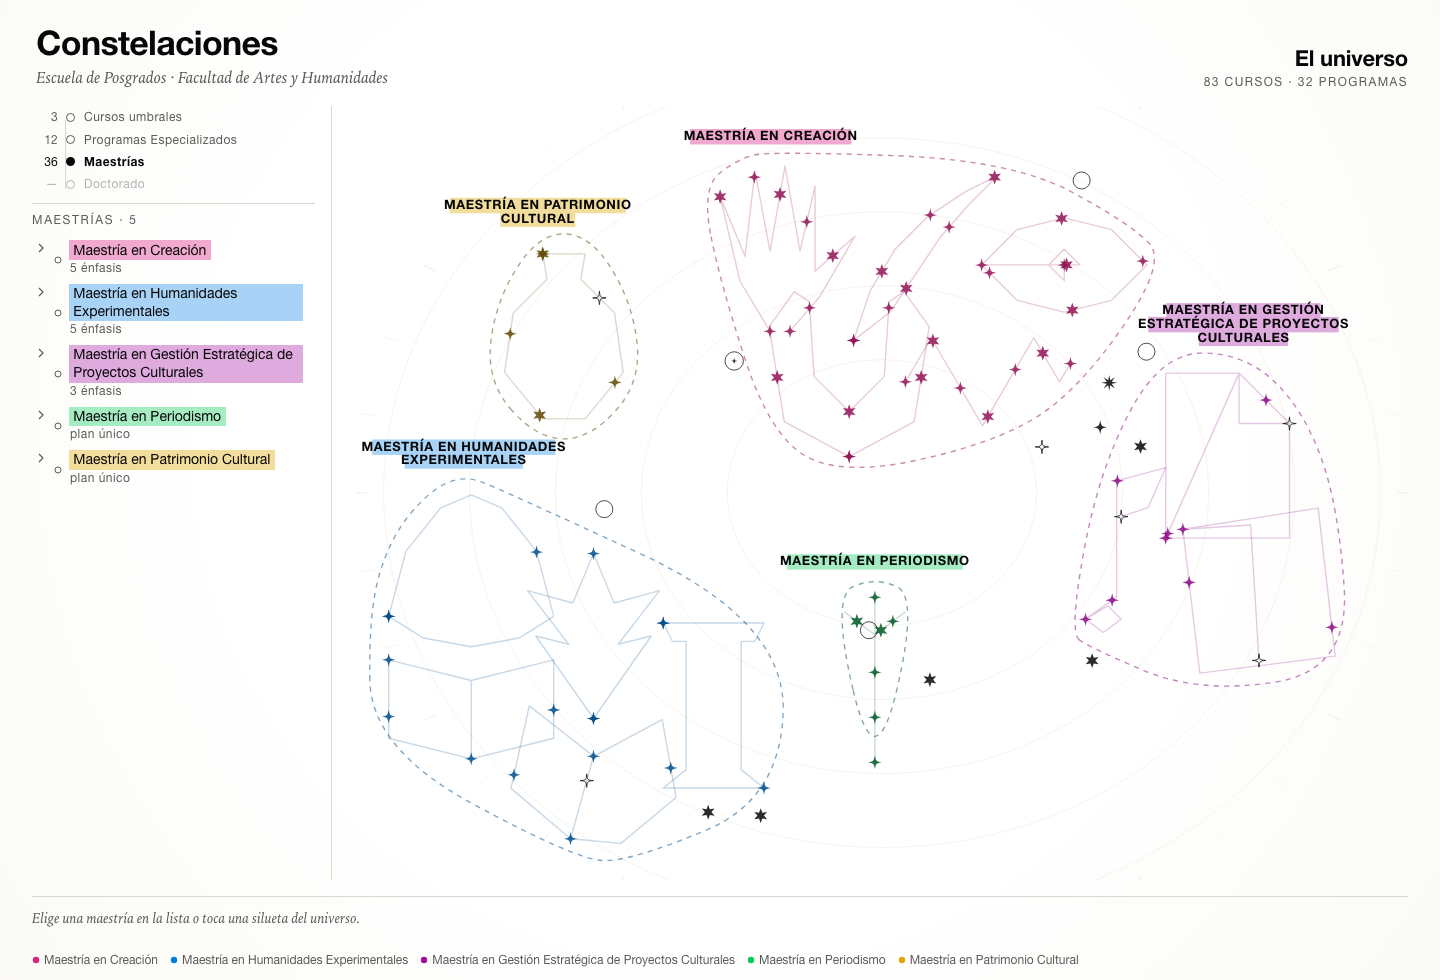
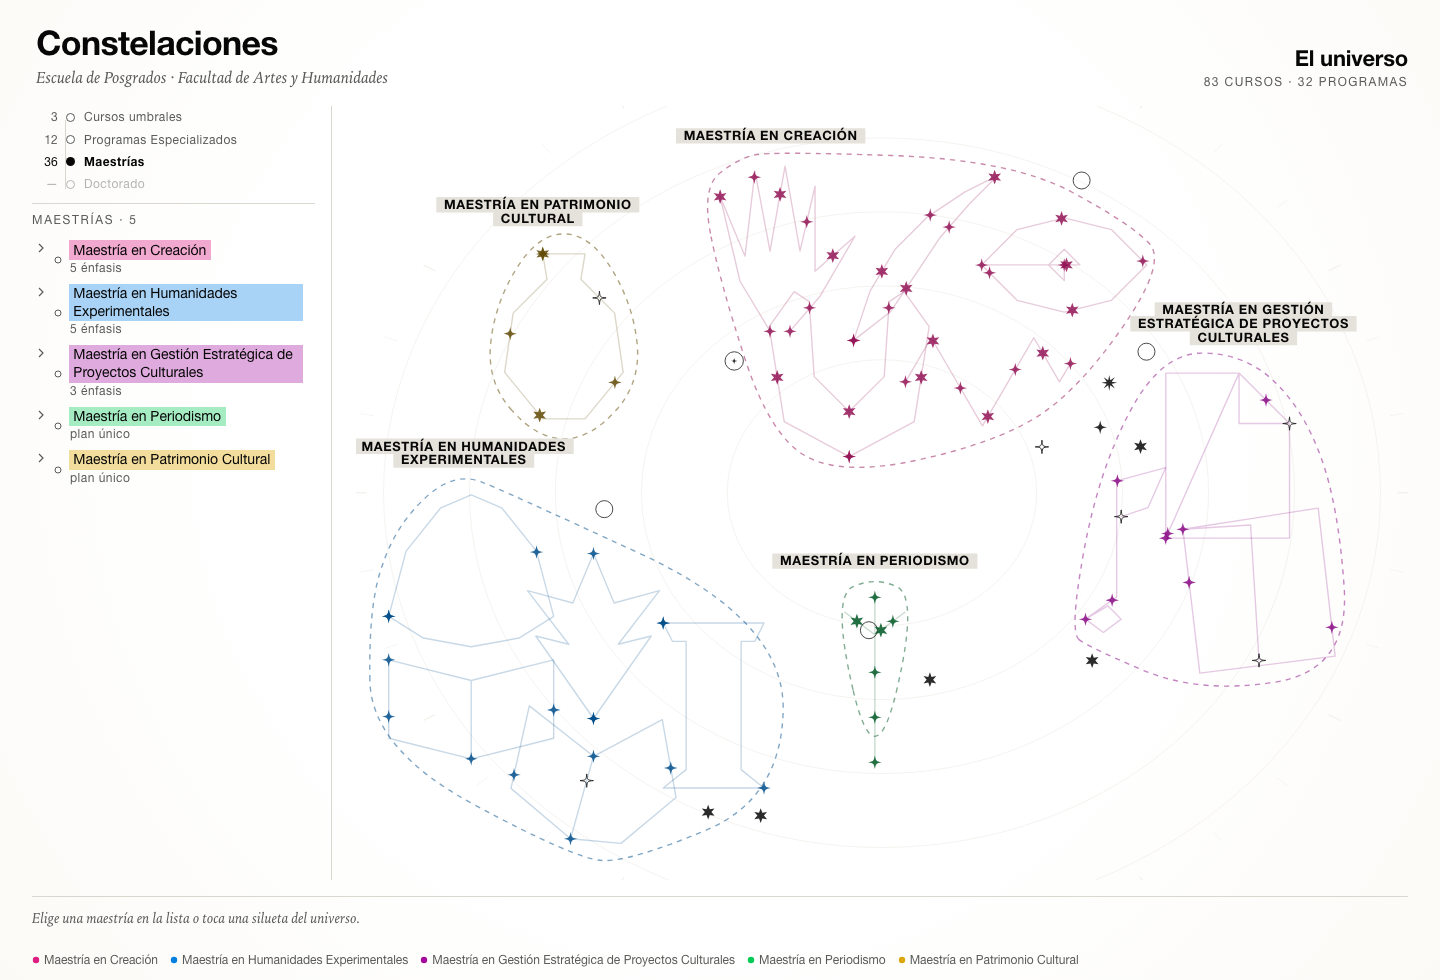
La marca de los rótulos se mide, no se estima
- Etiqueta.svelte mide el texto con getBBox y ajusta el rect
- estilos de rótulo a app.css (el scope no cruza componentes)
- el rótulo fijo calla al flotante en las maestrías de plan único
- docs y captura

diff --git a/src/lib/components/SkyStage.svelte b/src/lib/components/SkyStage.svelte
@@ -6,6 +6,7 @@
   import type { Punto } from '../domain/figures'
   import { polylinePath } from '../viz/geometry'
   import { envolventePath } from '../domain/hull'
+  import Etiqueta from './Etiqueta.svelte'
   import { finDelPlan, planViaje, posicionEn, prefiereMenosMovimiento } from '../viz/motion'
   import { colorDe, marcaDe, radioDe } from '../viz/palette'
   import StarGlyph from './StarGlyph.svelte'
@@ -328,37 +329,36 @@
             if (ev.key === 'Enter' || ev.key === ' ') { ev.preventDefault(); onElegir(l.programaId) }
           }}>
           {#each lineas as linea, i (linea)}
-            <rect
-              x={xEt - (linea.length * 8.4 + 20) / 2}
-              y={arriba[1] - 26 - (lineas.length - 1 - i) * 16}
-              width={linea.length * 8.4 + 20}
-              height="18"
-              class="fondo-region {marcaDe(l.programaId)}"
+            <Etiqueta
+              texto={linea}
+              x={xEt}
+              y={arriba[1] - 13 - (lineas.length - 1 - i) * 16}
+              clase="nombre-region"
+              marca={marcaDe(l.programaId)}
             />
-          {/each}
-          {#each lineas as linea, i (linea)}
-            <text x={xEt} y={arriba[1] - 13 - (lineas.length - 1 - i) * 16} class="nombre-region">{linea}</text>
           {/each}
         </g>
       {/if}
     {/each}
 
     {#each escena.siluetas as s (s.programaId)}
-      {#if sinPrograma && siluetaHover === (s.objetivo ?? s.programaId) && nivel !== 'curso'}
+      {#if sinPrograma &&
+        siluetaHover === (s.objetivo ?? s.programaId) &&
+        nivel !== 'curso' &&
+        !escena.limites.some((l) => l.programaId === (s.objetivo ?? s.programaId))}
         {@const p = curriculum.programas[s.objetivo ?? s.programaId]}
         {@const bx = s.puntos.reduce((a, q) => a + q[0], 0) / s.puntos.length}
         {@const by = Math.max(...s.puntos.map((q) => q[1]))}
         {@const anchoEt = Math.max(78, p.nombreCorto.length * 8.8 + 24)}
         {@const etX = Math.min(Math.max(bx, anchoEt / 2 + 8), escena.ancho - anchoEt / 2 - 8)}
         <g class="etiqueta">
-          <rect
-            x={etX - anchoEt / 2}
-            y={Math.min(by + 12, escena.alto - 28)}
-            width={anchoEt}
-            height="26"
-            class="fondo-figura-visible {marcaDe(s.programaId)}"
+          <Etiqueta
+            texto={p.nombreCorto}
+            x={etX}
+            y={Math.min(by + 12, escena.alto - 28) + 18}
+            clase="nombre-silueta"
+            marca={marcaDe(s.programaId)}
           />
-          <text x={etX} y={Math.min(by + 12, escena.alto - 28) + 18} class="nombre-silueta">{p.nombreCorto}</text>
         </g>
       {/if}
     {/each}
@@ -369,14 +369,7 @@
         {@const nombre = curriculum.programas[f.programaId]?.nombreCorto ?? ''}
         {@const cx = f.puntos.reduce((a, q) => a + q[0], 0) / f.puntos.length}
         {@const abajo = Math.max(...f.puntos.map((q) => q[1]))}
-        <rect
-          x={cx - (nombre.length * 8.4 + 20) / 2}
-          y={abajo + 8}
-          width={nombre.length * 8.4 + 20}
-          height="19"
-          class="fondo-figura {marcaDe(f.programaId)}"
-        />
-        <text x={cx} y={abajo + 22} class="nombre-figura">{nombre}</text>
+        <Etiqueta texto={nombre} x={cx} y={abajo + 22} clase="nombre-figura" marca={marcaDe(f.programaId)} />
       {/if}
     {/each}
   </g>
@@ -439,26 +432,16 @@
     outline: none;
   }
 
-  .rotulo-region:hover .nombre-region {
-    text-decoration: underline;
-    text-underline-offset: 3px;
+  .rotulo-region:hover {
+    opacity: 0.72;
   }
 
-  .rotulo-region:focus-visible .fondo-region {
-    stroke: var(--c-focus);
-    stroke-width: 2;
+  .rotulo-region:focus-visible {
+    outline: 2px solid var(--c-focus);
+    outline-offset: 3px;
   }
 
-  .nombre-region {
-    font-family: var(--ff-sans);
-    font-size: 15px;
-    font-weight: 700;
-    letter-spacing: 0.05em;
-    text-transform: uppercase;
-    fill: var(--c-ink);
-    text-anchor: middle;
-  }
-
+  
   /* el relleno lo pone la clase hl-* de app.css, para no pisarla con el scope */
 
   .silueta-selector {
@@ -490,15 +473,7 @@
     pointer-events: none;
   }
 
-  .nombre-silueta {
-    font-family: var(--ff-sans);
-    font-size: 14px;
-    font-weight: 700;
-    letter-spacing: 0.03em;
-    fill: var(--c-ink);
-    text-anchor: middle;
-  }
-
+  
   /* el relleno lo pone la clase hl-* de app.css, para no pisarla con el scope */
 
   .figura {
@@ -519,19 +494,7 @@
     stroke: var(--c-focus);
   }
 
-  .nombre-figura {
-    font-family: var(--ff-sans);
-    font-size: 14px;
-    font-weight: 700;
-    letter-spacing: 0.06em;
-    text-transform: uppercase;
-    fill: var(--c-ink);
-    text-anchor: middle;
-    opacity: 0;
-    transition: opacity var(--t-fast) var(--ease);
-    pointer-events: none;
-  }
-
+  
   .nombre-figura.visible,
   .fondo-figura.visible,
   .etiqueta.visible {

diff --git a/src/app.css b/src/app.css
@@ -105,3 +105,38 @@ button {
   background: var(--hl-ink);
   fill: var(--hl-ink);
 }
+
+/* Rótulos del cielo: viven en app.css porque los dibuja Etiqueta.svelte,
+   y los estilos con scope no cruzan la frontera del componente. */
+.nombre-region {
+  font-family: var(--ff-sans);
+  font-size: 15px;
+  font-weight: 700;
+  letter-spacing: 0.05em;
+  text-transform: uppercase;
+  fill: var(--c-ink);
+  text-anchor: middle;
+}
+
+.nombre-figura {
+  font-family: var(--ff-sans);
+  font-size: 14px;
+  font-weight: 700;
+  letter-spacing: 0.06em;
+  text-transform: uppercase;
+  fill: var(--c-ink);
+  text-anchor: middle;
+}
+
+.nombre-silueta {
+  font-family: var(--ff-sans);
+  font-size: 15px;
+  font-weight: 700;
+  letter-spacing: 0.05em;
+  fill: var(--c-ink);
+  text-anchor: middle;
+}
+
+.fondo-etiqueta {
+  fill: var(--hl-ink);
+}

diff --git a/src/lib/components/Etiqueta.svelte b/src/lib/components/Etiqueta.svelte
@@ -1,0 +1,29 @@
+<script lang="ts">
+  interface Props {
+    texto: string
+    x: number
+    y: number
+    clase: string
+    marca: string
+  }
+
+  let { texto, x, y, clase, marca }: Props = $props()
+
+  let nodo = $state<SVGTextElement | null>(null)
+  let ancho = $state(0)
+
+  // la marca se mide sobre el texto dibujado: nada de estimar por caracteres
+  $effect(() => {
+    if (nodo) ancho = nodo.getBBox().width + 18
+  })
+</script>
+
+<rect x={x - ancho / 2} y={y - 14} width={ancho} height="18" class="fondo-etiqueta {marca}" />
+<text bind:this={nodo} {x} {y} class={clase}>{texto}</text>
+
+<style>
+  /* el color lo pone la clase hl-* de app.css; aquí solo el aire */
+  .fondo-etiqueta {
+    rx: 1;
+  }
+</style>

diff --git a/docs/design-system.md b/docs/design-system.md
@@ -101,8 +101,11 @@ gritar: sirve para reconocer de un vistazo a qué familia pertenece un bloque.
 Reglas:
 
 - **Es un fondo, nunca texto.** Sobre la marca siempre va tinta `#070707`.
-- **Un rótulo, una marca.** Siluetas, regiones y figuras usan el mismo par: `rect` con la clase
-  `.hl-*` y texto en tinta, 12–14 px, negrita. No hay rótulos «a pelo».
+- **Un rótulo, una marca, una medida.** Siluetas, regiones y figuras se dibujan con `Etiqueta`: un
+  `rect` con la clase `.hl-*` y texto en tinta, 14–15 px, negrita. El ancho del `rect` sale de medir el
+  texto, no de estimarlo por caracteres — la estimación fue justo lo que descuadró la marca. Los
+  estilos de estos rótulos viven en `app.css` porque los pinta otro componente y el scope de Svelte no
+  cruza esa frontera.
 - **Solo títulos y rótulos cortos**: nombre de maestría, título de periodo, rótulo de una figura al
   pasar el cursor, rótulo de una región (12 px, negrita, MAYÚSCULAS, sobre su marca de familia). Nunca párrafos, nunca texto de cuerpo, nunca dos marcas en la misma línea.
 - En SVG la marca es un `rect` con la clase `.hl-*` (que fija `fill` además de `background`), y el
@@ -206,6 +209,7 @@ radio: el cielo de fondo no compite con la constelación encendida.
 | `SkyStage` | `graph`, `figures`, `mode` | cielo, constelación, vacío | Único componente que dibuja el SVG. Sin lógica de dominio. |
 | `ConstellationPath` | `programId`, `color`, `pattern`, `points`, `figure` | normal, hover, atenuado | Una `path` por constelación; la figura se dibuja completa. |
 | `Debug` | — | panel | Solo con `?debug` en la URL. Dos deslizadores que escriben `--stroke-const` y `--stroke-region` en la raíz. Es una herramienta, no interfaz: no se documenta como componente de producto. |
+| `Etiqueta` | `texto`, `x`, `y`, `clase`, `marca` | rótulo con su marca | Mide el texto dibujado con `getBBox()` y dibuja el `rect` a esa medida: nada de estimar por caracteres. Todos los rótulos del cielo pasan por aquí. |
 | `Region` | `puntos` | visible, oculta, rótulo pulsable | Contorno discontinuo que encierra las figuras de una maestría. Su rótulo es un botón: abre la maestría. Trazo 1, 45 % de opacidad, rótulo partido en líneas. Solo en la escala «maestría». No se usa en la vista de detalle: allí la figura ya es la forma. |
 | `SilhouetteSelector` | `siluetas`, `onElegir` | normal, hover, foco | Sin selección, las quince siluetas repartidas por el cielo, sin pisarse. Trazo al 22 %; al pasar el cursor, 85 % y el nombre. Zona de contacto: relleno transparente + círculo de 46 px. |
 | `Figure` | `programaId`, `puntos` | normal, hover, foco | En la maestría con énfasis, cada figura es un botón: abre su plan. Trazo con relleno transparente para que se pueda tocar el interior, no solo la línea. En la constelación de un solo programa la figura no es interactiva. |

diff --git a/docs/diary.md b/docs/diary.md
@@ -492,3 +492,15 @@ solo cuando se entra.
 constelación —hasta 20 px— mientras en el resto de las vistas generales medían 6,6. Ahora todas las
 vistas generales comparten tamaño; el radio grande queda para cuando hay un programa abierto, donde
 significa algo.
+
+---
+
+## 2026-10-30 · La marca se mide
+
+**El rect detrás del nombre no cuadraba con el texto.** El ancho se estimaba por caracteres y la
+estimación se quedó vieja cuando el rótulo pasó de 12 a 15 px. Ahora `Etiqueta.svelte` mide el texto
+dibujado con `getBBox()` y dibuja la marca a esa medida: un solo componente para los tres rótulos del
+cielo.
+
+**Y los rótulos no se repiten.** En la vista de maestrías, las dos de plan único tienen nombre fijo y
+además aparecía al pasar el cursor. Ahora el rótulo fijo calla al flotante.
